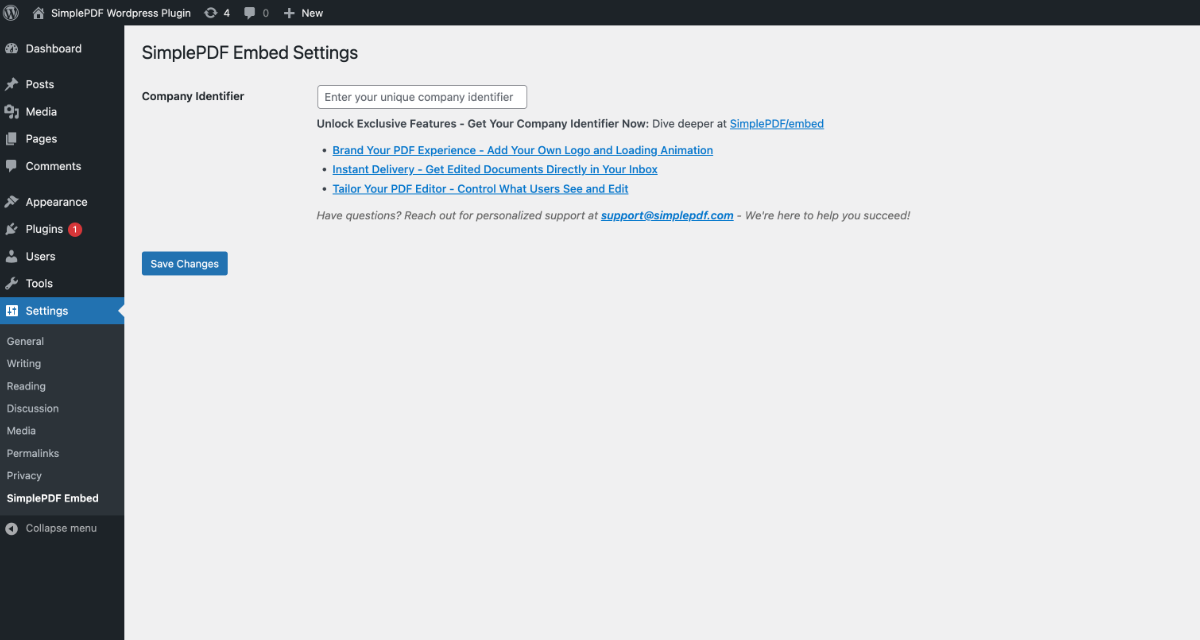
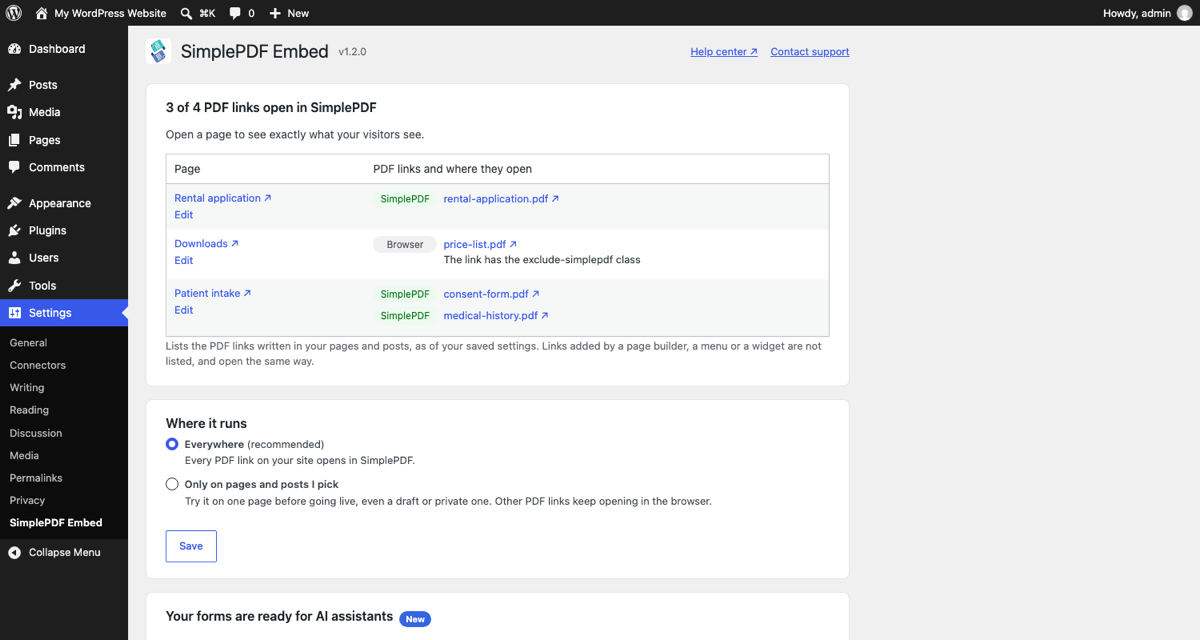
feat(wordpress): 1.2.0 readme (outcome-led description, settings previews, FAQ, external services), settings screenshot, version bump

diff --git a/wordpress/svn/trunk/simplepdf-embed.php b/wordpress/svn/trunk/simplepdf-embed.php
@@ -4,8 +4,8 @@ Plugin Name:       SimplePDF Embed
 Plugin URI:        https://simplepdf.com/embed
 Author:            SimplePDF
 Author URI:        https://simplepdf.com
-Description:       Your visitors can fill & sign PDFs without leaving your website.
-Version:           1.1.3
+Description:       Visitors fill and sign your PDFs right on your site. With a SimplePDF account, every filled PDF comes back to you, automatically.
+Version:           1.2.0
 License:           GPL v2 or later
 License URI:       https://www.gnu.org/licenses/gpl-2.0.html
 */
@@ -14,7 +14,7 @@ if ( ! defined( 'ABSPATH' ) ) exit;
 
 require_once __DIR__ . '/pdf-links.php';
 
-define('SIMPLEPDF_PLUGIN_VERSION', '1.1.3');
+define('SIMPLEPDF_PLUGIN_VERSION', '1.2.0');
 define('SIMPLEPDF_SETTINGS_SCREEN', 'settings_page_simplepdf_settings');
 define('SIMPLEPDF_POST_LIST_LIMIT', 300);
 define('SIMPLEPDF_PDF_PAGE_LIMIT', 100);
